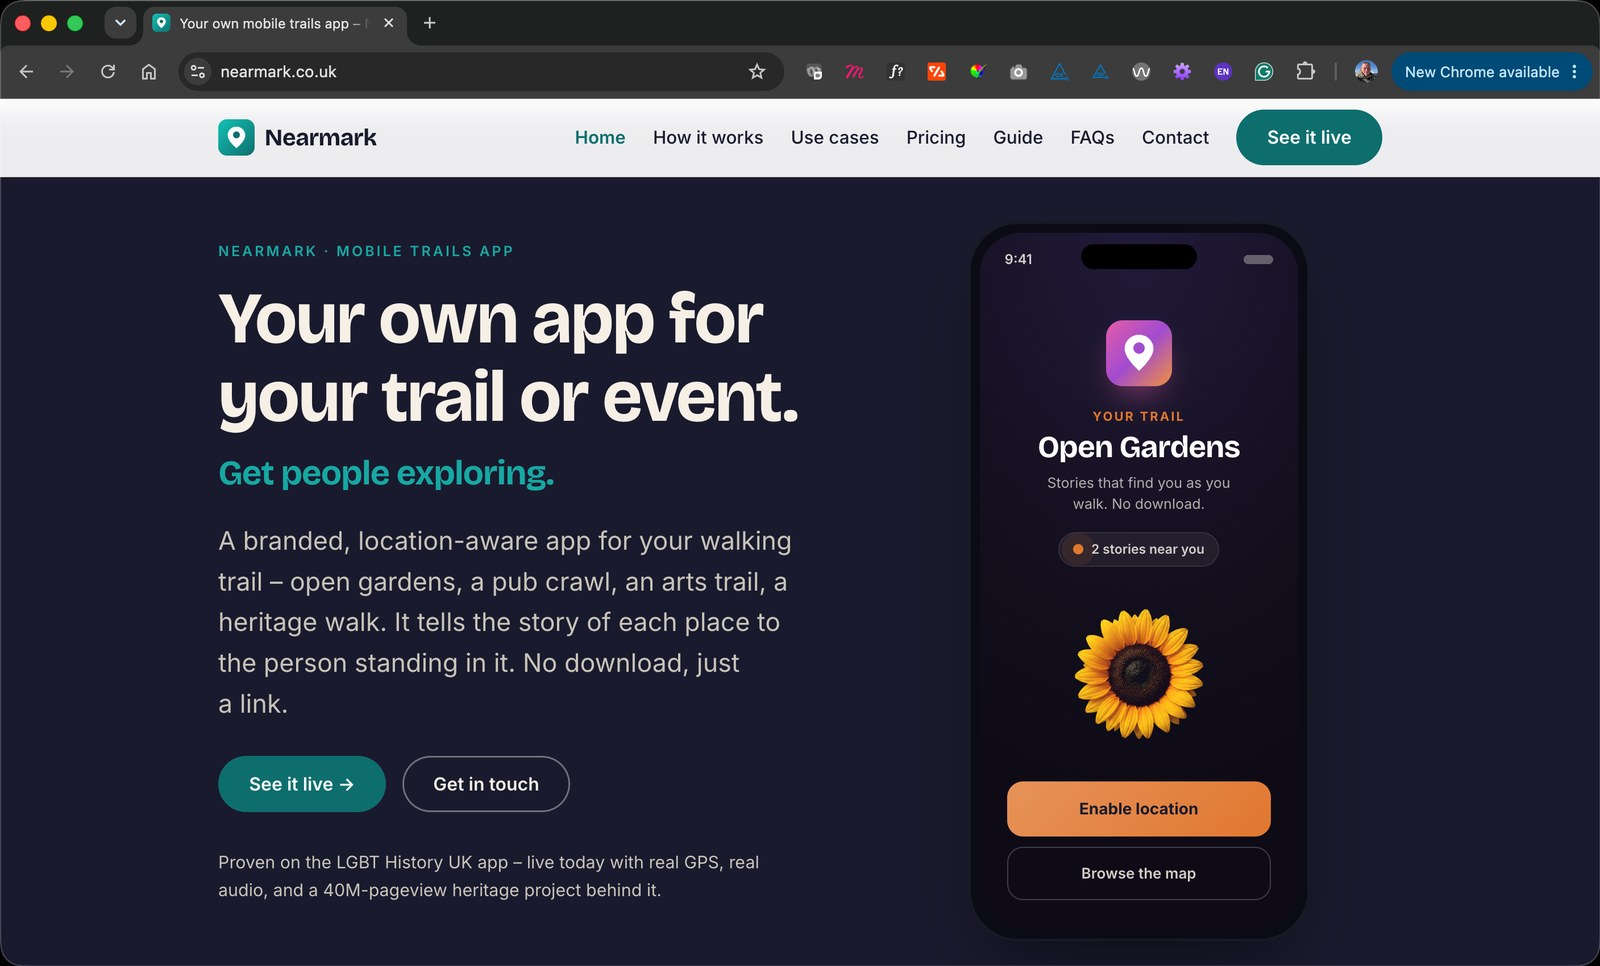
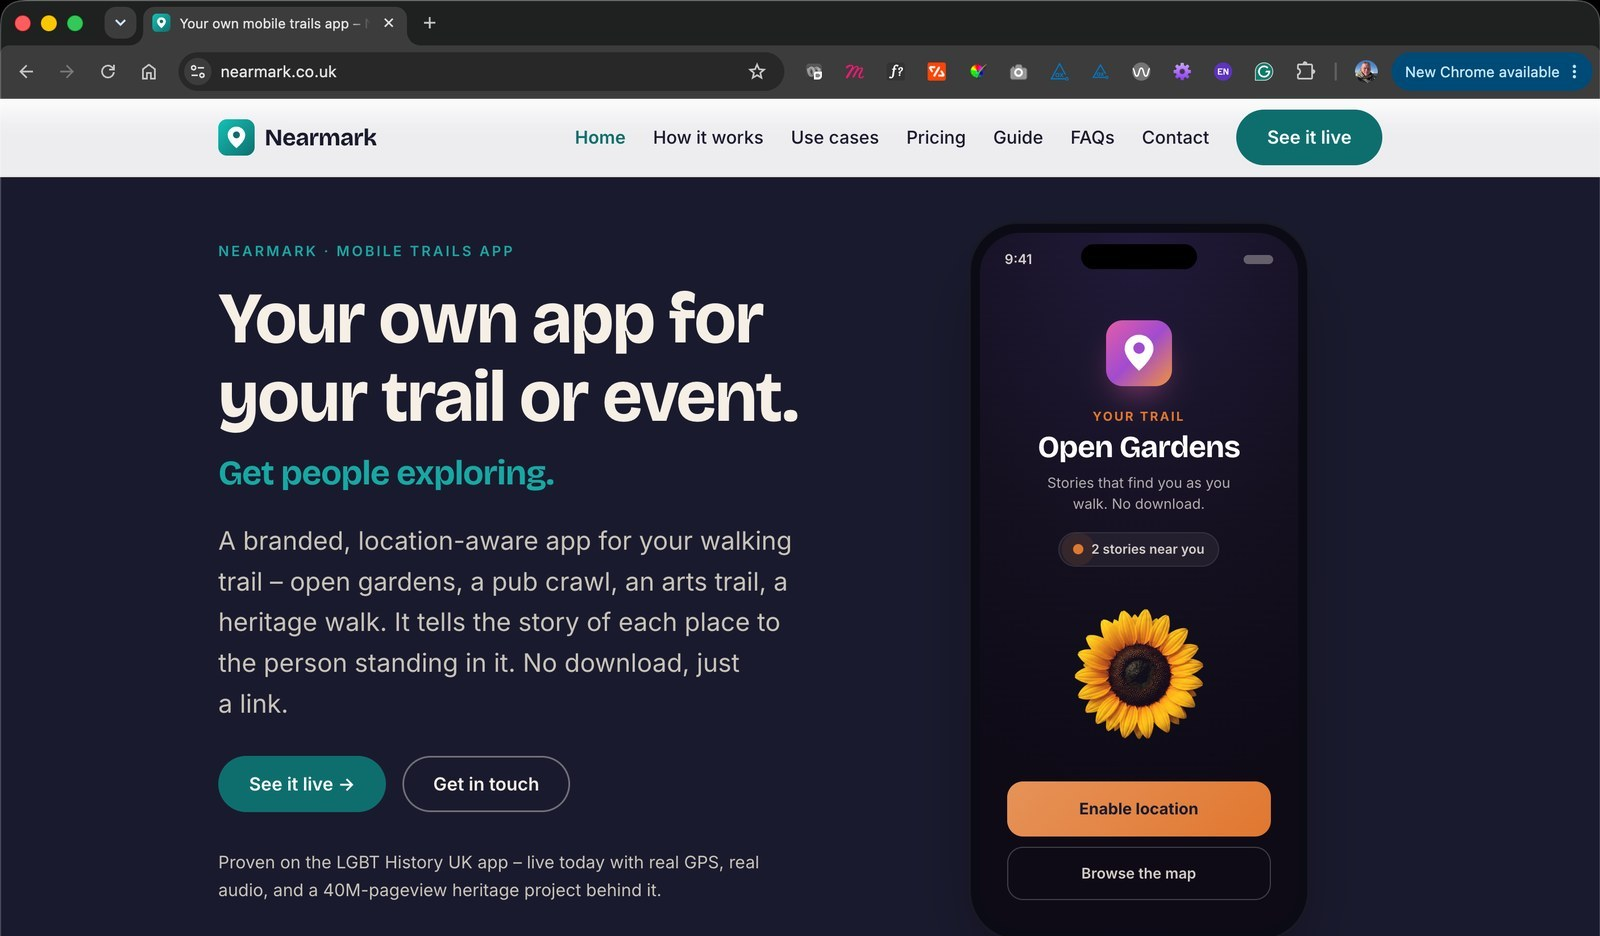
Screenshots: crop off the black rounded bottom corners
The window screenshots had rounded bottom corners flattened to black,
showing as notches against the page. The dark reached up to 25px, so all
seven are cropped to a uniform 1600x936 (top-anchored: the top corners
sit inside the dark browser chrome and never showed).

Uniform source size also makes the panels pixel-identical: every one is
now 368px tall with the CTA at 283px and no gap under the screenshot.

diff --git a/style.css b/style.css
@@ -1462,7 +1462,7 @@ a:hover {
 .project-panel__stats {
   display: flex;
   gap: 2.5rem;
-  margin-bottom: 1rem;
+  margin-bottom: 0.75rem;
 }
 
 .project-panel__stat-n {
